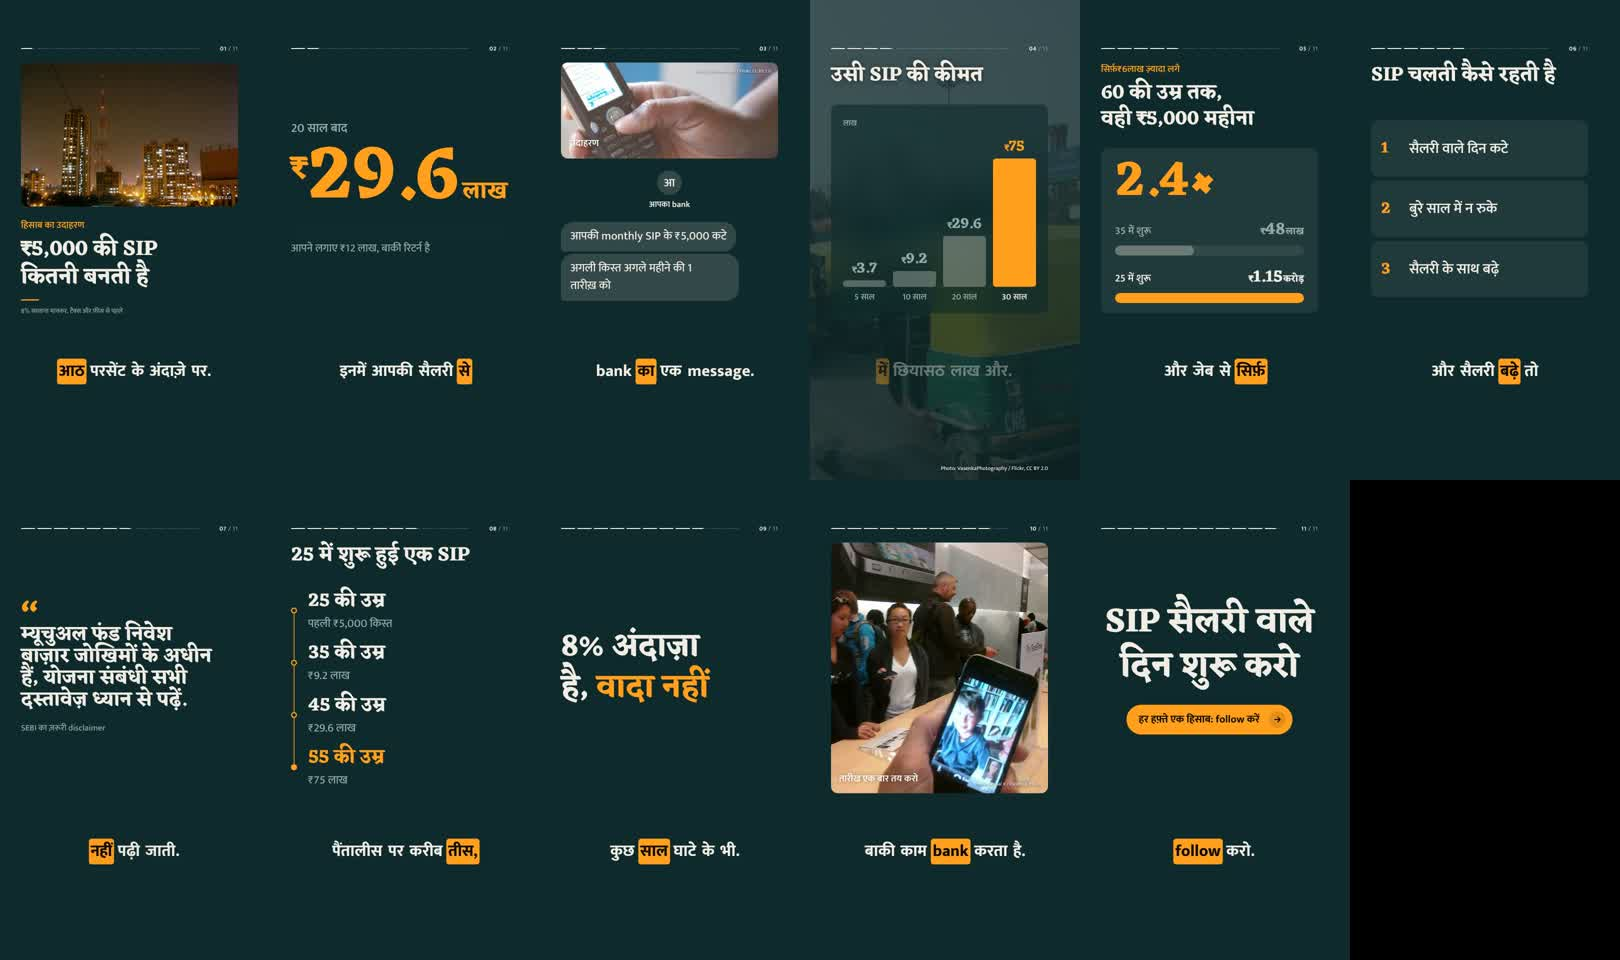
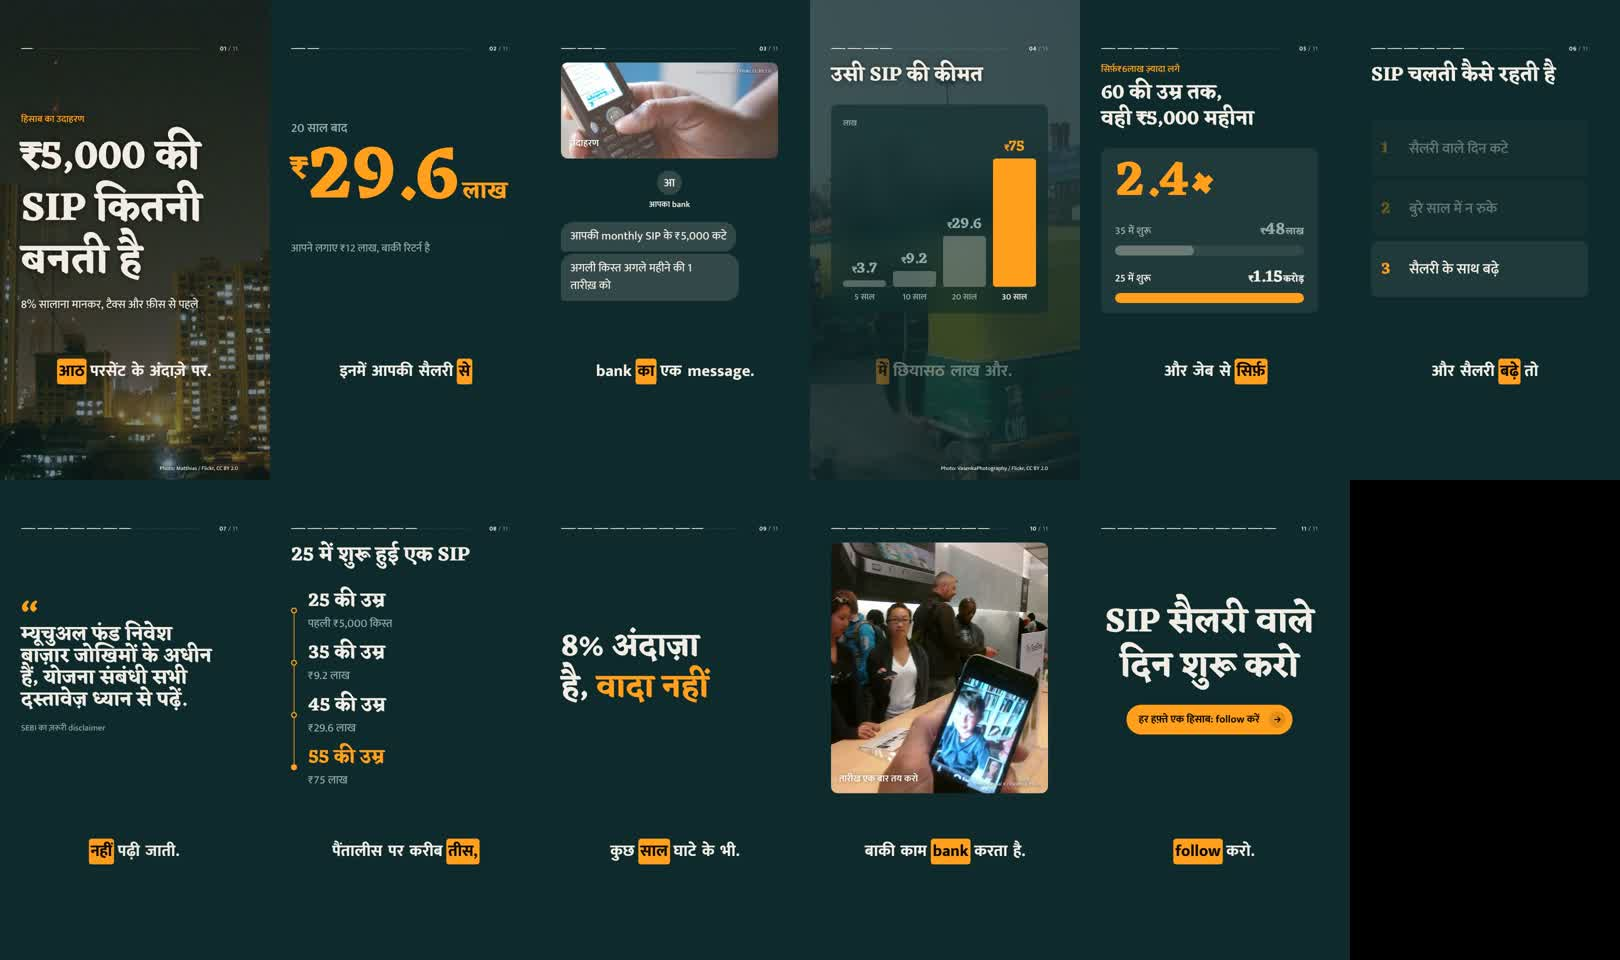
Open on a full-frame photo; walk the list point by point
- title: with tiles, its photo fills the frame under a light veil and the
  title sits large near the bottom, like the opening of a film
- list: points arrive across the whole beat and the earlier ones step back
  as each new one lands
- progress line: the beats still to come are barely there
- docs and images.md describe the title photo

Claude-Session: https://claude.ai/code/session_015iGsKUNTqUMX6rbhQzKvLn

Changed region(s): [[0.0, 0.0938, 0.1852, 0.5], [0.8642, 0.1875, 0.9259, 0.2188], [0.8642, 0.125, 0.9259, 0.1562]]

diff --git a/skills/vid-studio/assets/scenes/engine.js b/skills/vid-studio/assets/scenes/engine.js
@@ -865,10 +865,13 @@
       anim: function (tl, a) {
         var at = revealHead(tl, a, head, a.t0);
         var n = Math.max(1, items.length);
-        var gap = clamp(Math.max(0.3, (a.e - at) * 0.55) / n, 0.18 * a.f, 1.2);
+        // with tiles, the points arrive across most of the beat, about when each is said, and the earlier
+        // ones step back as the next lands, so the eye is always on the point being spoken
+        var gap = a.cards ? clamp((a.e - at) * 0.72 / n, 0.18 * a.f, 3) : clamp(Math.max(0.3, (a.e - at) * 0.55) / n, 0.18 * a.f, 1.2);
         items.forEach(function (it, i) {
           var t = at + i * gap;
           cardIn(tl, a, it.li, t);
+          if (a.cards && i < n - 1) tw(tl, it.li, { opacity: 1 }, { opacity: 0.38, duration: a.dur(0.6), ease: 'power2.inOut' }, t + gap, false);
           drawLine(tl, a, it.line, t);
           tw(tl, it.idx, { opacity: 0, y: a.dist(16) }, { opacity: 1, y: 0, duration: a.dur(0.5), ease: a.E.out }, t + 0.05);
           tw(tl, it.text, { x: -a.dist(24), opacity: 0 }, { x: 0, opacity: 1, duration: a.dur(0.6), ease: a.E.out }, t + 0.1);
@@ -1478,6 +1481,7 @@
         '--accent-soft': rgba(C.accent, dark ? 0.16 : 0.12),
         '--accent-line': rgba(C.accent, 0.6),
         '--scrim-flat': rgba(C.background, dark ? 0.74 : 0.8),
+        '--title-veil': rgba(C.background, dark ? 0.45 : 0.6),
         '--cl': L.content.left + 'px', '--ct': L.content.top + 'px', '--cw': L.content.width + 'px', '--ch': L.content.height + 'px'
       };
       if (L.captions) {
@@ -1545,8 +1549,10 @@
         var pic = sc.type === 'image' ? (sc.data.url ? { src: sc.data.url, credit: sc.data.credit || (sc.image && sc.image.credit) || '' } : sc.image) : sc.image;
         var photo = pic ? { url: resolveMedia(pic.src, options.mediaBase), credit: pic.credit || '' } : null;
         if (photo && !photo.url) photo = null;
+        // with tiles, a title's photo fills the frame and the title sits over it, near the bottom
         var mode = !photo ? null : sc.type === 'image' ? 'hero' :
-          (sc.image && sc.image.layout) || (design.images.layout === 'full' ? 'full' : TOP_PHOTO.indexOf(sc.type) >= 0 ? 'top' : 'full');
+          (sc.image && sc.image.layout) || (design.images.layout === 'full' ? 'full' :
+            sc.type === 'title' && design.cards.style !== 'flat' ? 'full' : TOP_PHOTO.indexOf(sc.type) >= 0 ? 'top' : 'full');
         var ctx = { design: design, waits: waits, photo: photo };
         var b = BUILD[sc.type](sc, ctx);
         // the overlay label and a chart's title share a header row pinned to the top of the content area

diff --git a/skills/vid-studio/assets/scenes/engine.css b/skills/vid-studio/assets/scenes/engine.css
@@ -350,10 +350,20 @@
 .vid-stage.cards .rule { width: calc(var(--ts) * 72px); height: calc(var(--ts) * 5px); border-radius: 99px; }
 .vid-stage.cards .kicker { margin-bottom: calc(var(--k) * 28px); }
 
-/* progress, logo */
-.vid-stage.cards .progress { gap: 8px; }
+/* progress, logo: a quiet line; the beats ahead are barely there */
+.vid-stage.cards .progress { gap: 6px; }
+.vid-stage.cards .progress .seg { background: var(--track); }
+.vid-stage.cards .progress .seg i { opacity: .85; }
 .vid-stage.cards .progress .seg, .vid-stage.cards .progress .seg i { border-radius: 99px; }
 .vid-stage.cards .logo .logo-mark, .vid-stage.cards .scene-end .end-logo .logo-mark { border-radius: 50%; }
+
+/* title over its photo: the photo fills the frame under a light veil, the title sits near the bottom */
+.vid-stage.cards .scene-title.has-photo .backdrop .scrim { background: var(--title-veil); }
+.vid-stage.cards .scene-title.has-photo .body { justify-content: flex-end; }
+.vid-stage.cards .scene-title.has-photo .title { font-size: calc(var(--k) * var(--kw, 1) * var(--ts) * 160px); }
+.vid-stage.cards .scene-title.has-photo .subtitle { color: var(--text); opacity: .85; margin-top: calc(var(--k) * 32px); }
+.vid-stage.cards .scene-title.has-photo .rule { display: none; }
+.vid-stage.cards .scene-title.has-photo .kicker { margin-bottom: calc(var(--k) * 24px); }
 
 /* stat: the number is the hero, no tile; its digits roll in like an odometer */
 .vid-stage.cards .scene-stat .stat-label { font-size: calc(var(--k) * var(--ts) * 50px); font-weight: 600; color: var(--muted); margin-bottom: calc(var(--k) * 4px); }

diff --git a/skills/vid-studio/references/images.md b/skills/vid-studio/references/images.md
@@ -9,7 +9,7 @@ Visual: stat | ₹6,500 | Jaquar sensor tap | starting price
 Image: media/sensor-tap.jpg | Photo: BPE innovationas / Wikimedia Commons, CC BY-SA 4.0
 ```
 
-- `Image: path | credit` gives that beat a photo. On a stat, punchline, quote, list, message, title or end card, the photo sits across the top of the frame as a rounded photo card, as tall as the scene below it allows; in wide formats it takes the left side. (Flat looks run it edge to edge with a hard edge instead.) On a chart, it fills the screen behind the scene, veiled, and the chart's tile frosts the part it covers. Add `| top` or `| full` at the end of the line to choose for yourself.
+- `Image: path | credit` gives that beat a photo. On a title, the photo fills the frame under a light veil and the title sits over it near the bottom (with tiles). On a stat, punchline, quote, list, message or end card, the photo sits across the top of the frame as a rounded photo card, as tall as the scene below it allows; in wide formats it takes the left side. (Flat looks run it edge to edge with a hard edge instead.) On a chart, it fills the screen behind the scene, veiled, and the chart's tile frosts the part it covers. Add `| top` or `| full` at the end of the line to choose for yourself.
 - `Visual: image | what it shows | path | credit` makes the photo itself the scene, for beats where seeing the thing *is* the point. Without a path, it's an "Image needed" card in the preview, and the render warns about it.
 - The credit shows small on the photo (or at the bottom of the frame). Keep it short: `Photo: Name / Source, License`.
 - Because photos usually take the top of the frame rather than the full 1080×1920, a 1024 px photo looks sharp. An `image` scene whose photo is too small to fill the screen runs across the top instead of being blown up.

diff --git a/docs/rounded-tiles/README.md b/docs/rounded-tiles/README.md
@@ -34,9 +34,9 @@ The tiles:
 
 **Labels are eyebrows.** `Text:` labels and kickers are small accent text in sentence case, not boxes. On a photo card the label sits on the photo's bottom-left corner, so the scene below keeps its full size.
 
-**Photos.** A photo above a scene is a rounded photo card on the plain background. In the image scene the photo takes the whole space. Behind a chart, the photo fills the frame under a flat veil, and the chart's tile frosts the part it covers. That is the only blur in the system, and it is there so the values stay readable.
+**Photos.** A title's photo fills the frame under a light veil, with the title set large near the bottom, like the opening of a film. A photo above any other scene is a rounded photo card on the plain background. In the image scene the photo takes the whole space. Behind a chart, the photo fills the frame under a flat veil, and the chart's tile frosts the part it covers. That is the only blur in the system, and it is there so the values stay readable.
 
-**Motion.** Tiles rise a short way and settle on a long ease, and fades lift slightly as one scene hands over to the next. Nothing bounces, and holds stay still.
+**Motion.** Tiles rise a short way and settle on a long ease, and fades lift slightly as one scene hands over to the next. List points arrive across the whole beat, and the earlier ones step back as each new one lands, so the eye is always on the point being spoken. The progress line is quieter: the beats still to come are barely there. Nothing bounces, and holds stay still.
 
 **Fixes.** The scene counter ("11 / 11") no longer sits on the progress line. A photo credit with no source beside it is no longer cut off. Text inside tiles is sized for a phone.
 
